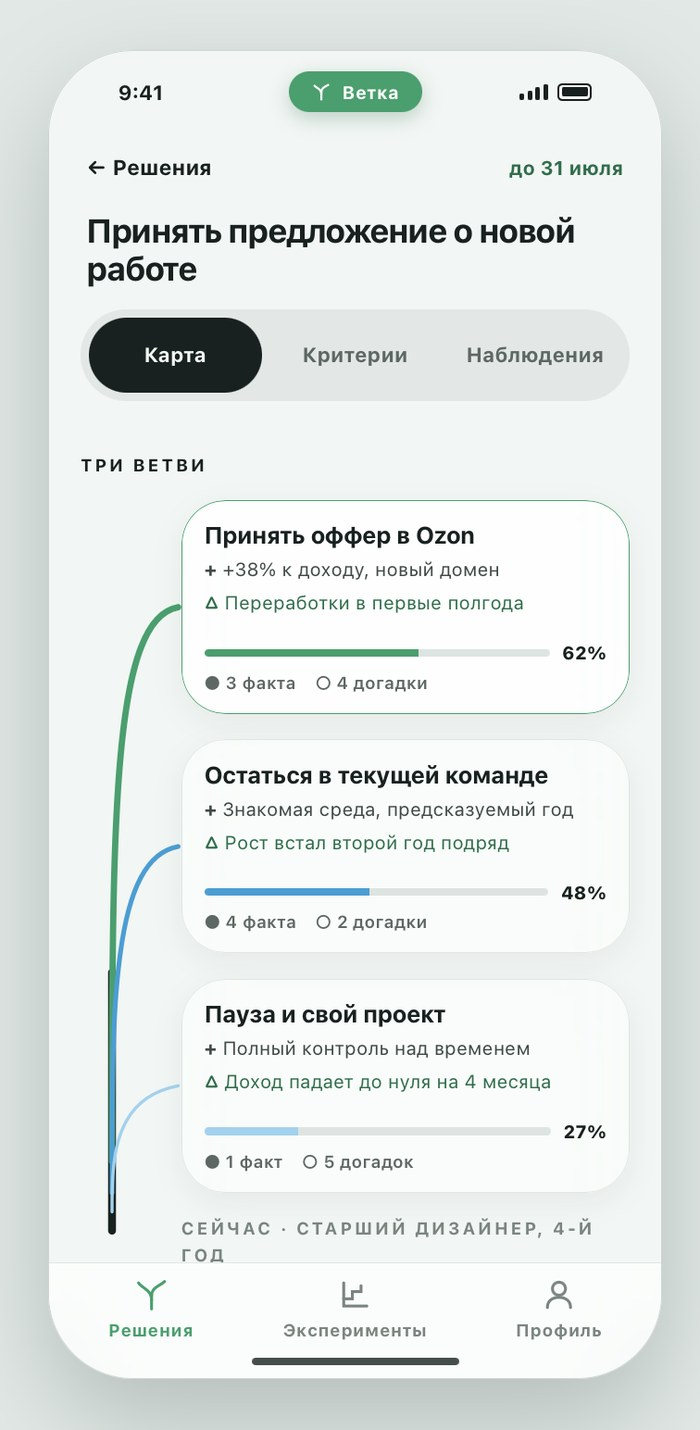
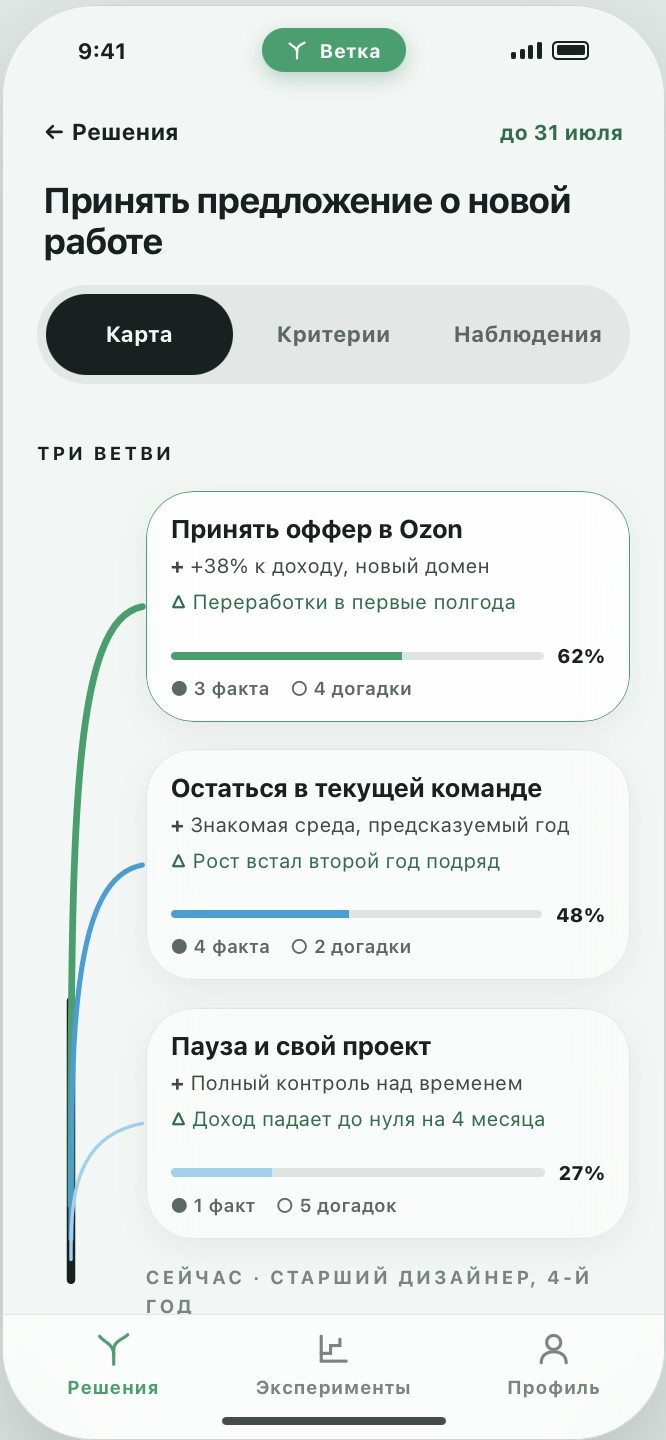
Vetka: distinct research (method vs findings, 4/5 once) with real study details; updated 666x1440 screenshots; enlarged Map & Observations screens in model/outcome blocks

diff --git a/case-vetka.html b/case-vetka.html
@@ -113,45 +113,43 @@
     <p class="cap" style="margin-top:14px;opacity:.8">Проверенного обычно меньше, чем кажется. Ветка помогает добыть настоящие данные о вариантах – маленькими шагами.</p>
   </div>
 
-  <div class="bento" style="grid-template-columns:1fr 1.05fr;margin-top:36px" id="vk-research">
-    <div class="tile pad reveal" style="display:flex;flex-direction:column;justify-content:center;gap:14px">
-      <span class="k" style="color:#0c6e48">Исследование</span>
-      <p class="big" style="font-size:clamp(20px,2.4vw,28px);line-height:1.25">4 из 5 участников сказали, что решать стало проще<span style="color:#17a06a">.</span></p>
-      <div style="display:flex;gap:10px;flex-wrap:wrap">
-        <svg width="30" height="30" viewBox="0 0 24 24" fill="#17a06a"><circle cx="12" cy="7.5" r="4"/><path d="M4.5 20c0-4.2 3.4-7 7.5-7s7.5 2.8 7.5 7z"/></svg>
-        <svg width="30" height="30" viewBox="0 0 24 24" fill="#17a06a"><circle cx="12" cy="7.5" r="4"/><path d="M4.5 20c0-4.2 3.4-7 7.5-7s7.5 2.8 7.5 7z"/></svg>
-        <svg width="30" height="30" viewBox="0 0 24 24" fill="#17a06a"><circle cx="12" cy="7.5" r="4"/><path d="M4.5 20c0-4.2 3.4-7 7.5-7s7.5 2.8 7.5 7z"/></svg>
-        <svg width="30" height="30" viewBox="0 0 24 24" fill="#17a06a"><circle cx="12" cy="7.5" r="4"/><path d="M4.5 20c0-4.2 3.4-7 7.5-7s7.5 2.8 7.5 7z"/></svg>
-        <svg width="30" height="30" viewBox="0 0 24 24" fill="none" stroke="#bcdfce" stroke-width="1.6"><circle cx="12" cy="7.5" r="4"/><path d="M4.5 20c0-4.2 3.4-7 7.5-7s7.5 2.8 7.5 7"/></svg>
+  <div class="sec-head" style="margin-top:44px;margin-bottom:16px"><h2 class="s">Исследование<span class="dot" style="color:#17a06a">.</span></h2><span class="cap">5 пользователей · прототип и разговор</span></div>
+  <div class="bento" style="grid-template-columns:1fr 1fr" id="vk-research">
+    <div class="tile pad reveal" style="display:flex;flex-direction:column;justify-content:center;gap:12px">
+      <span class="k" style="color:#0c6e48">Как проходило</span>
+      <p class="big" style="font-size:clamp(18px,2vw,23px);line-height:1.3">Дал прототип и задачу «разбери своё реальное решение», а после – разговор<span style="color:#17a06a">.</span></p>
+      <div class="flow stagger" style="margin-top:2px">
+        <span class="fc">5 участников</span><span class="ar" style="color:#17a06a">→</span>
+        <span class="fc">задача в прототипе</span><span class="ar" style="color:#17a06a">→</span>
+        <span class="fc">интервью</span>
       </div>
-      <p class="cap">Небольшой качественный тест на 5 пользователях. Это не статистика, а сигнал: раскладка на факты и короткие эксперименты снижают тревогу выбора.</p>
+      <p class="cap" style="margin-top:8px">Смотрел, где буксуют и что проговаривают вслух, и спрашивал, стало ли легче двигаться к решению.</p>
     </div>
     <div class="tile ink pad reveal" style="display:flex;flex-direction:column;justify-content:center;gap:12px">
-      <span class="k" style="color:#4fc396">Итог теста</span>
-      <div style="font-weight:800;letter-spacing:-.03em;line-height:.9;font-size:clamp(64px,11vw,120px)">4<span style="color:#4fc396;font-size:.5em">/5</span></div>
-      <div class="bar" style="height:12px;background:rgba(255,255,255,.14)"><i style="width:80%;background:#17a06a"></i></div>
-      <p class="cap" style="opacity:.85">«Теперь проще принимать решения» · 4 из 5 пользователей</p>
+      <span class="k" style="color:#4fc396">Что отметили участники</span>
+      <div style="display:flex;align-items:baseline;gap:14px">
+        <div style="font-weight:800;letter-spacing:-.03em;line-height:.85;font-size:clamp(48px,8vw,78px)">4<span style="color:#4fc396;font-size:.5em">/5</span></div>
+        <p class="cap" style="opacity:.9">из 5 сказали, что решать стало проще</p>
+      </div>
+      <div style="display:flex;flex-direction:column;gap:9px;margin-top:2px">
+        <div style="border-left:2px solid #17a06a;padding:2px 0 2px 12px;font-size:13px;color:#dff3e8">Раскладка на факты, страхи и догадки снижает тревогу выбора</div>
+        <div style="border-left:2px solid #17a06a;padding:2px 0 2px 12px;font-size:13px;color:#dff3e8">Виден прогресс: ясность растёт, догадки становятся фактами</div>
+      </div>
     </div>
   </div>
 
-  <div class="bento" style="grid-template-columns:1fr 1fr 1fr;margin-top:36px" id="vk-tree">
-    <div class="tile beige pad reveal">
-      <span class="k" style="color:#0c6e48">Ствол</span>
-      <p class="big" style="font-size:19px;margin:10px 0 6px">Как есть сейчас</p>
-      <p class="cap">Точка отсчёта: от неё считается отклонение каждого варианта.</p>
+  <div class="bento" style="grid-template-columns:1fr 1.05fr;margin-top:36px" id="vk-tree">
+    <div class="tile beige reveal" style="display:flex;align-items:center;justify-content:center;padding:24px">
+      <div class="iph" style="width:clamp(200px,54vw,262px)"><div class="scr"><img src="assets/vk-map.jpg" alt="Ветка: карта решения с тремя ветвями крупно" style="position:absolute;inset:0;width:100%;height:100%;object-fit:cover"></div></div>
     </div>
-    <div class="tile beige pad reveal">
-      <span class="k" style="color:#0c6e48">Ветви</span>
-      <p class="big" style="font-size:19px;margin:10px 0 6px">Варианты решения</p>
-      <p class="cap">Хватает двух, третий появляется сам. У каждой ветви: выгода, риск и уверенность.</p>
-    </div>
-    <div class="tile beige pad reveal">
-      <span class="k" style="color:#0c6e48">Уверенность</span>
-      <p class="big" style="font-size:19px;margin:10px 0 6px">Факты против догадок</p>
-      <p class="cap">Процент растёт, когда догадки становятся фактами, а не когда просто думаешь дольше.</p>
+    <div class="tile pad reveal" style="display:flex;flex-direction:column;justify-content:center;gap:16px">
+      <span class="k" style="color:#0c6e48">Метафора ветки</span>
+      <div><p style="font-weight:700;font-size:15px">Ствол: как есть сейчас</p><p class="cap">Точка отсчёта, от неё считается отклонение каждого варианта.</p></div>
+      <div><p style="font-weight:700;font-size:15px">Ветви: варианты</p><p class="cap">Хватает двух, третий появляется сам. У каждой ветви: выгода, риск и уверенность.</p></div>
+      <div><p style="font-weight:700;font-size:15px">Уверенность: факты против догадок</p><p class="cap">Процент растёт, когда догадки становятся фактами, а не когда просто думаешь дольше.</p></div>
     </div>
   </div>
-  <p class="figcap">Метафора ветки: ствол – настоящее, ветви – варианты; выбор растёт из проверенных фактов</p>
+  <p class="figcap">Карта решения крупным планом: три ветви, у каждой – проценты уверенности и счётчик «факты / догадки»</p>
 
   <div class="tile pad reveal" style="margin-top:36px">
     <span class="k" style="color:#0c6e48">Обратимый шаг</span>
@@ -165,15 +163,19 @@
     <p class="cap" style="margin-top:14px">Вместо «да» или «нет» – короткий эксперимент на несколько дней. Из него возвращаешься с фактами.</p>
   </div>
 
-  <div class="tile pad reveal" style="margin-top:36px">
-    <span class="k" style="color:#0c6e48">Итог эксперимента</span>
-    <p class="big" style="font-size:clamp(19px,2.2vw,26px);margin:12px 0;line-height:1.3;max-width:760px">Пять вечеров – и уверенность выросла с 27% до 44%<span style="color:#17a06a">.</span></p>
-    <div class="statband" style="margin-top:6px">
-      <div class="tile pad reveal" style="background:var(--beige)"><div class="cap">было</div><div class="bar" style="height:12px;margin-top:8px;background:#dbe4e1"><i style="width:27%;background:#9adcc2"></i></div><div class="cap" style="margin-top:6px">27% уверенности</div></div>
-      <div class="tile pad reveal" style="background:var(--beige)"><div class="cap">стало</div><div class="bar" style="height:12px;margin-top:8px;background:#dbe4e1"><i style="width:44%;background:#17a06a"></i></div><div class="cap" style="margin-top:6px">44% уверенности</div></div>
-      <div class="tile pad reveal" style="background:var(--beige)"><div class="cap">за счёт чего</div><p style="font-weight:600;font-size:14px;margin-top:8px;line-height:1.3">Три догадки стали фактами, одна отпала</p></div>
+  <div class="bento" style="grid-template-columns:.9fr 1.1fr;margin-top:36px" id="vk-outcome">
+    <div class="tile beige reveal" style="display:flex;align-items:center;justify-content:center;padding:24px">
+      <div class="iph" style="width:clamp(200px,54vw,262px)"><div class="scr"><img src="assets/vk-observe.jpg" alt="Ветка: ежедневные записи эксперимента крупно" style="position:absolute;inset:0;width:100%;height:100%;object-fit:cover"></div></div>
     </div>
-    <p class="cap" style="margin-top:12px;opacity:.7">Пример из прототипа на демонстрационных данных.</p>
+    <div class="tile pad reveal" style="display:flex;flex-direction:column;justify-content:center;gap:14px">
+      <span class="k" style="color:#0c6e48">Эксперимент и итог</span>
+      <p class="big" style="font-size:clamp(18px,2vw,24px);line-height:1.3">Каждый вечер – короткий чек-ин: энергия, интерес, тревога и заметка. За пять вечеров уверенность выросла с 27% до 44%<span style="color:#17a06a">.</span></p>
+      <div style="display:flex;flex-direction:column;gap:9px">
+        <div><div style="display:flex;justify-content:space-between;font-size:12px"><span>было</span><b>27%</b></div><div class="bar" style="height:10px;margin-top:4px;background:#dbe4e1"><i style="width:27%;background:#9adcc2"></i></div></div>
+        <div><div style="display:flex;justify-content:space-between;font-size:12px"><span>стало</span><b style="color:#0c6e48">44%</b></div><div class="bar" style="height:10px;margin-top:4px;background:#dbe4e1"><i style="width:44%;background:#17a06a"></i></div></div>
+      </div>
+      <p class="cap" style="opacity:.75">Три догадки стали фактами, одна отпала. Пример из прототипа на демонстрационных данных.</p>
+    </div>
   </div>
 
   <div class="tile ink pad reveal" style="margin-top:36px">
@@ -202,6 +204,6 @@ if(!rm){const io2=new IntersectionObserver(es=>es.forEach(e=>{if(!e.isIntersecti
 document.querySelectorAll('.stat .n').forEach(n=>{const v=n.textContent.trim();if(/^\d+$/.test(v)&&+v>1){n.dataset.cnt=v;io2.observe(n)}})}
 (function(){var root=document.getElementById('vkCar');if(!root)return;var vp=root.querySelector('.vp');var sl=[].slice.call(root.querySelectorAll('.cs'));var dw=root.querySelector('.dots');var i=0,timer=null;sl.forEach(function(s,idx){var b=document.createElement('b');if(!idx)b.className='on';b.addEventListener('click',function(){go(idx,true)});dw.appendChild(b)});function layout(){var c=root.clientWidth/2;var s=sl[i];var cen=s.offsetLeft+s.offsetWidth/2;vp.style.transform='translateX('+(c-cen)+'px)';sl.forEach(function(x,idx){x.classList.toggle('act',idx===i)});var ds=dw.children;for(var d=0;d<ds.length;d++)ds[d].className=(d===i?'on':'')}function go(n,user){i=(n+sl.length)%sl.length;layout();if(user)restart()}function restart(){if(timer)clearInterval(timer);timer=setInterval(function(){go(i+1)},3800)}var p=root.querySelector('.arw.p'),nx=root.querySelector('.arw.n');if(p)p.addEventListener('click',function(){go(i-1,true)});if(nx)nx.addEventListener('click',function(){go(i+1,true)});sl.forEach(function(s,idx){s.addEventListener('click',function(){if(idx!==i)go(idx,true)})});var sx=null;vp.addEventListener('pointerdown',function(e){sx=e.clientX});window.addEventListener('pointerup',function(e){if(sx===null)return;var dx=e.clientX-sx;if(Math.abs(dx)>40)go(i+(dx<0?1:-1),true);sx=null});root.addEventListener('mouseenter',function(){if(timer)clearInterval(timer)});root.addEventListener('mouseleave',restart);window.addEventListener('resize',layout);layout();setTimeout(layout,250);restart();[].forEach.call(root.querySelectorAll('img'),function(im){im.addEventListener('load',layout)});var mq=matchMedia('(prefers-reduced-motion: reduce)');if(mq.matches&&timer)clearInterval(timer);})();
 </script>
-<style>@media(max-width:820px){#vk-tree{grid-template-columns:1fr!important}#vk-research{grid-template-columns:1fr!important}}@media(max-width:720px){#vk-branch{grid-template-columns:1fr!important;text-align:center}#vk-branch svg{max-width:180px;margin:0 auto}}</style>
+<style>@media(max-width:820px){#vk-tree,#vk-research,#vk-outcome{grid-template-columns:1fr!important}}@media(max-width:720px){#vk-branch{grid-template-columns:1fr!important;text-align:center}#vk-branch svg{max-width:180px;margin:0 auto}}</style>
 </body>
 </html>

diff --git a/en/case-vetka.html b/en/case-vetka.html
@@ -113,45 +113,43 @@
     <p class="cap" style="margin-top:14px;opacity:.8">What’s actually verified is usually less than it seems. Vetka helps you gather real data about your options – in small steps.</p>
   </div>
 
-  <div class="bento" style="grid-template-columns:1fr 1.05fr;margin-top:36px" id="vk-research">
-    <div class="tile pad reveal" style="display:flex;flex-direction:column;justify-content:center;gap:14px">
-      <span class="k" style="color:#0c6e48">Research</span>
-      <p class="big" style="font-size:clamp(20px,2.4vw,28px);line-height:1.25">4 of 5 participants said deciding got easier<span style="color:#17a06a">.</span></p>
-      <div style="display:flex;gap:10px;flex-wrap:wrap">
-        <svg width="30" height="30" viewBox="0 0 24 24" fill="#17a06a"><circle cx="12" cy="7.5" r="4"/><path d="M4.5 20c0-4.2 3.4-7 7.5-7s7.5 2.8 7.5 7z"/></svg>
-        <svg width="30" height="30" viewBox="0 0 24 24" fill="#17a06a"><circle cx="12" cy="7.5" r="4"/><path d="M4.5 20c0-4.2 3.4-7 7.5-7s7.5 2.8 7.5 7z"/></svg>
-        <svg width="30" height="30" viewBox="0 0 24 24" fill="#17a06a"><circle cx="12" cy="7.5" r="4"/><path d="M4.5 20c0-4.2 3.4-7 7.5-7s7.5 2.8 7.5 7z"/></svg>
-        <svg width="30" height="30" viewBox="0 0 24 24" fill="#17a06a"><circle cx="12" cy="7.5" r="4"/><path d="M4.5 20c0-4.2 3.4-7 7.5-7s7.5 2.8 7.5 7z"/></svg>
-        <svg width="30" height="30" viewBox="0 0 24 24" fill="none" stroke="#bcdfce" stroke-width="1.6"><circle cx="12" cy="7.5" r="4"/><path d="M4.5 20c0-4.2 3.4-7 7.5-7s7.5 2.8 7.5 7"/></svg>
+  <div class="sec-head" style="margin-top:44px;margin-bottom:16px"><h2 class="s">Research<span class="dot" style="color:#17a06a">.</span></h2><span class="cap">5 users · prototype and a conversation</span></div>
+  <div class="bento" style="grid-template-columns:1fr 1fr" id="vk-research">
+    <div class="tile pad reveal" style="display:flex;flex-direction:column;justify-content:center;gap:12px">
+      <span class="k" style="color:#0c6e48">How it ran</span>
+      <p class="big" style="font-size:clamp(18px,2vw,23px);line-height:1.3">I handed over the prototype with one task, “work through a real decision of yours,” then talked it over<span style="color:#17a06a">.</span></p>
+      <div class="flow stagger" style="margin-top:2px">
+        <span class="fc">5 participants</span><span class="ar" style="color:#17a06a">→</span>
+        <span class="fc">task in the prototype</span><span class="ar" style="color:#17a06a">→</span>
+        <span class="fc">interview</span>
       </div>
-      <p class="cap">A small qualitative test with 5 users. Not statistics but a signal: splitting into facts and short experiments lowers the anxiety of choosing.</p>
+      <p class="cap" style="margin-top:8px">I watched where they stalled and what they said out loud, and asked whether moving toward a decision felt easier.</p>
     </div>
     <div class="tile ink pad reveal" style="display:flex;flex-direction:column;justify-content:center;gap:12px">
-      <span class="k" style="color:#4fc396">Test result</span>
-      <div style="font-weight:800;letter-spacing:-.03em;line-height:.9;font-size:clamp(64px,11vw,120px)">4<span style="color:#4fc396;font-size:.5em">/5</span></div>
-      <div class="bar" style="height:12px;background:rgba(255,255,255,.14)"><i style="width:80%;background:#17a06a"></i></div>
-      <p class="cap" style="opacity:.85">“Now it’s easier to decide” · 4 of 5 users</p>
+      <span class="k" style="color:#4fc396">What participants noted</span>
+      <div style="display:flex;align-items:baseline;gap:14px">
+        <div style="font-weight:800;letter-spacing:-.03em;line-height:.85;font-size:clamp(48px,8vw,78px)">4<span style="color:#4fc396;font-size:.5em">/5</span></div>
+        <p class="cap" style="opacity:.9">of 5 said deciding got easier</p>
+      </div>
+      <div style="display:flex;flex-direction:column;gap:9px;margin-top:2px">
+        <div style="border-left:2px solid #17a06a;padding:2px 0 2px 12px;font-size:13px;color:#dff3e8">Splitting into facts, fears and guesses lowers the anxiety of choosing</div>
+        <div style="border-left:2px solid #17a06a;padding:2px 0 2px 12px;font-size:13px;color:#dff3e8">Progress is visible: clarity rises as guesses turn into facts</div>
+      </div>
     </div>
   </div>
 
-  <div class="bento" style="grid-template-columns:1fr 1fr 1fr;margin-top:36px" id="vk-tree">
-    <div class="tile beige pad reveal">
-      <span class="k" style="color:#0c6e48">Trunk</span>
-      <p class="big" style="font-size:19px;margin:10px 0 6px">As things are now</p>
-      <p class="cap">The baseline: every option’s deviation is measured from it.</p>
+  <div class="bento" style="grid-template-columns:1fr 1.05fr;margin-top:36px" id="vk-tree">
+    <div class="tile beige reveal" style="display:flex;align-items:center;justify-content:center;padding:24px">
+      <div class="iph" style="width:clamp(200px,54vw,262px)"><div class="scr"><img src="../assets/vk-map.jpg" alt="Vetka: the decision map with three branches, enlarged" style="position:absolute;inset:0;width:100%;height:100%;object-fit:cover"></div></div>
     </div>
-    <div class="tile beige pad reveal">
-      <span class="k" style="color:#0c6e48">Branches</span>
-      <p class="big" style="font-size:19px;margin:10px 0 6px">The options</p>
-      <p class="cap">Two is enough, a third shows up on its own. Each branch has a benefit, a risk and a confidence.</p>
-    </div>
-    <div class="tile beige pad reveal">
-      <span class="k" style="color:#0c6e48">Confidence</span>
-      <p class="big" style="font-size:19px;margin:10px 0 6px">Facts vs guesses</p>
-      <p class="cap">It rises when guesses turn into facts, not when you just think about it longer.</p>
+    <div class="tile pad reveal" style="display:flex;flex-direction:column;justify-content:center;gap:16px">
+      <span class="k" style="color:#0c6e48">The branch metaphor</span>
+      <div><p style="font-weight:700;font-size:15px">Trunk: as things are now</p><p class="cap">The baseline; every option’s deviation is measured from it.</p></div>
+      <div><p style="font-weight:700;font-size:15px">Branches: the options</p><p class="cap">Two is enough, a third shows up on its own. Each has a benefit, a risk and a confidence.</p></div>
+      <div><p style="font-weight:700;font-size:15px">Confidence: facts vs guesses</p><p class="cap">It rises when guesses turn into facts, not when you just think about it longer.</p></div>
     </div>
   </div>
-  <p class="figcap">The branch metaphor: the trunk is the present, branches are options; the choice grows from verified facts</p>
+  <p class="figcap">The decision map, enlarged: three branches, each with a confidence percentage and a “facts / guesses” counter</p>
 
   <div class="tile pad reveal" style="margin-top:36px">
     <span class="k" style="color:#0c6e48">A reversible step</span>
@@ -165,15 +163,19 @@
     <p class="cap" style="margin-top:14px">Instead of a “yes” or “no” – a short experiment over a few days. You come back from it with facts.</p>
   </div>
 
-  <div class="tile pad reveal" style="margin-top:36px">
-    <span class="k" style="color:#0c6e48">Experiment outcome</span>
-    <p class="big" style="font-size:clamp(19px,2.2vw,26px);margin:12px 0;line-height:1.3;max-width:760px">Five evenings – and confidence rose from 27% to 44%<span style="color:#17a06a">.</span></p>
-    <div class="statband" style="margin-top:6px">
-      <div class="tile pad reveal" style="background:var(--beige)"><div class="cap">was</div><div class="bar" style="height:12px;margin-top:8px;background:#dbe4e1"><i style="width:27%;background:#9adcc2"></i></div><div class="cap" style="margin-top:6px">27% confidence</div></div>
-      <div class="tile pad reveal" style="background:var(--beige)"><div class="cap">now</div><div class="bar" style="height:12px;margin-top:8px;background:#dbe4e1"><i style="width:44%;background:#17a06a"></i></div><div class="cap" style="margin-top:6px">44% confidence</div></div>
-      <div class="tile pad reveal" style="background:var(--beige)"><div class="cap">because</div><p style="font-weight:600;font-size:14px;margin-top:8px;line-height:1.3">Three guesses became facts, one dropped</p></div>
+  <div class="bento" style="grid-template-columns:.9fr 1.1fr;margin-top:36px" id="vk-outcome">
+    <div class="tile beige reveal" style="display:flex;align-items:center;justify-content:center;padding:24px">
+      <div class="iph" style="width:clamp(200px,54vw,262px)"><div class="scr"><img src="../assets/vk-observe.jpg" alt="Vetka: daily experiment notes, enlarged" style="position:absolute;inset:0;width:100%;height:100%;object-fit:cover"></div></div>
     </div>
-    <p class="cap" style="margin-top:12px;opacity:.7">An example from the prototype on demo data.</p>
+    <div class="tile pad reveal" style="display:flex;flex-direction:column;justify-content:center;gap:14px">
+      <span class="k" style="color:#0c6e48">Experiment and outcome</span>
+      <p class="big" style="font-size:clamp(18px,2vw,24px);line-height:1.3">Each evening – a short check-in: energy, interest, anxiety and a note. Over five evenings confidence rose from 27% to 44%<span style="color:#17a06a">.</span></p>
+      <div style="display:flex;flex-direction:column;gap:9px">
+        <div><div style="display:flex;justify-content:space-between;font-size:12px"><span>was</span><b>27%</b></div><div class="bar" style="height:10px;margin-top:4px;background:#dbe4e1"><i style="width:27%;background:#9adcc2"></i></div></div>
+        <div><div style="display:flex;justify-content:space-between;font-size:12px"><span>now</span><b style="color:#0c6e48">44%</b></div><div class="bar" style="height:10px;margin-top:4px;background:#dbe4e1"><i style="width:44%;background:#17a06a"></i></div></div>
+      </div>
+      <p class="cap" style="opacity:.75">Three guesses became facts, one dropped. An example from the prototype on demo data.</p>
+    </div>
   </div>
 
   <div class="tile ink pad reveal" style="margin-top:36px">
@@ -202,6 +204,6 @@ if(!rm){const io2=new IntersectionObserver(es=>es.forEach(e=>{if(!e.isIntersecti
 document.querySelectorAll('.stat .n').forEach(n=>{const v=n.textContent.trim();if(/^\d+$/.test(v)&&+v>1){n.dataset.cnt=v;io2.observe(n)}})}
 (function(){var root=document.getElementById('vkCar');if(!root)return;var vp=root.querySelector('.vp');var sl=[].slice.call(root.querySelectorAll('.cs'));var dw=root.querySelector('.dots');var i=0,timer=null;sl.forEach(function(s,idx){var b=document.createElement('b');if(!idx)b.className='on';b.addEventListener('click',function(){go(idx,true)});dw.appendChild(b)});function layout(){var c=root.clientWidth/2;var s=sl[i];var cen=s.offsetLeft+s.offsetWidth/2;vp.style.transform='translateX('+(c-cen)+'px)';sl.forEach(function(x,idx){x.classList.toggle('act',idx===i)});var ds=dw.children;for(var d=0;d<ds.length;d++)ds[d].className=(d===i?'on':'')}function go(n,user){i=(n+sl.length)%sl.length;layout();if(user)restart()}function restart(){if(timer)clearInterval(timer);timer=setInterval(function(){go(i+1)},3800)}var p=root.querySelector('.arw.p'),nx=root.querySelector('.arw.n');if(p)p.addEventListener('click',function(){go(i-1,true)});if(nx)nx.addEventListener('click',function(){go(i+1,true)});sl.forEach(function(s,idx){s.addEventListener('click',function(){if(idx!==i)go(idx,true)})});var sx=null;vp.addEventListener('pointerdown',function(e){sx=e.clientX});window.addEventListener('pointerup',function(e){if(sx===null)return;var dx=e.clientX-sx;if(Math.abs(dx)>40)go(i+(dx<0?1:-1),true);sx=null});root.addEventListener('mouseenter',function(){if(timer)clearInterval(timer)});root.addEventListener('mouseleave',restart);window.addEventListener('resize',layout);layout();setTimeout(layout,250);restart();[].forEach.call(root.querySelectorAll('img'),function(im){im.addEventListener('load',layout)});var mq=matchMedia('(prefers-reduced-motion: reduce)');if(mq.matches&&timer)clearInterval(timer);})();
 </script>
-<style>@media(max-width:820px){#vk-tree{grid-template-columns:1fr!important}#vk-research{grid-template-columns:1fr!important}}@media(max-width:720px){#vk-branch{grid-template-columns:1fr!important;text-align:center}#vk-branch svg{max-width:180px;margin:0 auto}}</style>
+<style>@media(max-width:820px){#vk-tree,#vk-research,#vk-outcome{grid-template-columns:1fr!important}}@media(max-width:720px){#vk-branch{grid-template-columns:1fr!important;text-align:center}#vk-branch svg{max-width:180px;margin:0 auto}}</style>
 </body>
 </html>
